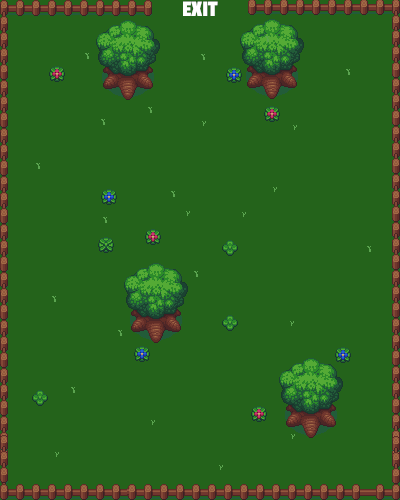
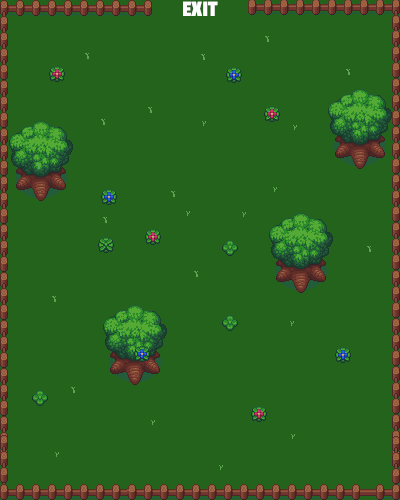
Moved 2 trees in level 2 to make game slightly easier

diff --git a/public/bundle.js b/public/bundle.js
@@ -1,1 +1,1 @@
-(()=>{"use strict";function t(t,e,i,s){return Math.atan2(s-e,i-t)}function e(t,e,i,s){let n=Math.pow(i-t,2),o=Math.pow(s-e,2);return Math.sqrt(n+o)}const i={EAST:{name:"east",min:.25*-Math.PI,max:.25*Math.PI},SOUTH:{name:"south",min:.25*Math.PI,max:.75*Math.PI},NORTH:{name:"north",min:.75*-Math.PI,max:.25*-Math.PI},WEST:{name:"west",min:.75*Math.PI,max:.75*-Math.PI}};function s(t){return t>=i.EAST.min&&t<i.EAST.max?i.EAST:t>=i.SOUTH.min&&t<i.SOUTH.max?i.SOUTH:t>=i.NORTH.min&&t<i.NORTH.max?i.NORTH:i.WEST}function n(t){return t>Math.PI?n(t-2*Math.PI):t<-Math.PI?n(t+2*Math.PI):t}function o(t,e){let i=!0;return(e.x>t.right||e.x<t.left)&&(i=!1),(e.y>t.bottom||e.y<t.top)&&(i=!1),i}class a{constructor(t,e){this.x=t,this.y=e}}class h{constructor(t,e,i,s){this.left=t,this.top=e,this.right=i,this.bottom=s}}function r(t){for(let e=0;e<t.length;e++)document.getElementById(t[e]).style.display="initial"}function l(t){for(let e=0;e<t.length;e++)document.getElementById(t[e]).style.display="none"}function d(t){document.getElementById("end-level-message").innerText=t}const c=400,m=500,g=30;class y{constructor(t,e,i){this.xPos=t,this.yPos=e,this.xDest=t,this.yDest=e,this.direction=0,this.unitMove=2.5,this.moving=!1,this.pointerDown=!1,this.wayPoints=[],this.obstacleArray=[];for(let t of i){let e=new h(t.x,t.y,t.x+t.width,t.y+t.height);this.obstacleArray.push(e)}}update(){this.moveToDest()}moveToDest(){if(this.wayPoints.length>0&&([this.xDest,this.yDest]=this.wayPoints[0],this.moving=!0),this.arrivedAtNextWaypoint()){if(this.wayPoints.shift(),!this.hasNextWaypoint())return void(this.moving=!1);this.assignNextDestination(),this.moving=!0}this.turnTowardsDestination();let t=e(this.xPos,this.yPos,this.xDest,this.yDest),i=this.unitMove;t<25&&1===this.wayPoints.length&&(i*=t/25);let s=i*Math.cos(this.direction),n=i*Math.sin(this.direction);[s,n]=this.checkMoveForObstacles(s,n,this.obstacles),this.xPos+=s,this.yPos+=n}onPointerDown(t,e){this.pointerDown||(this.pointerDown=!0,this.wayPoints=[])}onPointerMove(t,e){this.pointerDown&&this.checkWaypointIsValid(t,e,this.obstacleArray)&&this.wayPoints.push([t,e])}onPointerUp(t,e){this.pointerDown=!1,this.checkWaypointIsValid(t,e,this.obstacleArray)&&this.wayPoints.push([t,e])}turnTowardsDestination(){let e=t(this.xPos,this.yPos,this.xDest,this.yDest);this.direction=e}arrivedAtNextWaypoint(){return e(this.xDest,this.yDest,this.xPos,this.yPos)<=2*this.unitMove}hasNextWaypoint(){return this.wayPoints.length>0}assignNextDestination(){this.xDest=this.wayPoints[0][0],this.yDest=this.wayPoints[0][1]}checkMoveForObstacles(t,e){let i=this.xPos+t,s=this.yPos+e;for(let t of this.obstacleArray)if(o(t,new a(i,s)))return o(t,new a(this.xPos,s))?o(t,new a(i,this.yPos))?[0,0]:[e,0]:[0,e];return[t,e]}checkWaypointIsValid(t,e,i){for(let s of i)if(o(s,new a(t,e)))return!1;return!(t<g||t>370||e<g||e>470)}setSliderEventListener(){let t=document.getElementById("dog-speed");this.unitMove=2.5*t.value,t.addEventListener("change",(()=>{this.unitMove=2.5*t.value}))}}class u{constructor(t,e,i,s){this.xPos=t,this.yPos=e,this.direction=-Math.PI+Math.random()*Math.PI,this.velocity=0,this.id=i,this.moving=!1,this.isLamb=s,this.minDistanceFromHerd=120,this.outerReactionLimit=150}update(t,e,i,s){let n,o,a,h,r,l;[n,o]=this.getVelocityTowardHerd(t,e),[a,h]=this.getVelocityAwayFromDog(i),[r,l]=this.getVelocityAwayFromSides();let d=n+a+r,c=o+h+l;Math.abs(d)<=1&&Math.abs(c)<=1?(this.moving=!1,this.direction=Math.atan2(c,d),d=0,c=0):(this.moving=!0,this.direction=Math.atan2(c,d)),[d,c]=this.checkMoveForObstacles(d,c,s),this.xPos+=d,this.yPos+=c,this.checkGameAreaBounds()}getVelocityTowardHerd(i,s){if(e(this.xPos,this.yPos,i,s)>this.minDistanceFromHerd){let e=t(this.xPos,this.yPos,i,s),n=1.5;return[n*Math.cos(e),n*Math.sin(e)]}return[0,0]}getVelocityAwayFromDog(e){let i=this.outerReactionLimit,s=0,o=0,a=Math.pow(e.xPos-this.xPos,2),h=Math.pow(e.yPos-this.yPos,2);if(a+h<Math.pow(i,2)){let i=Math.sqrt(a+h),r=this.outerReactionLimit/i*1;r>6&&(r=6);let l=t(this.xPos,this.yPos,e.xPos,e.yPos);l=n(l+Math.PI),s=Math.cos(l)*r,o=Math.sin(l)*r}return[s,o]}getVelocityAwayFromSides(){let t,e,i=[0,0];this.xPos<50?(i=[1,0],t=this.xPos):this.xPos>350?(i=[-1,0],t=c-this.xPos):this.yPos<50?(this.xPos<165||this.xPos>235)&&(i=[0,1],t=50):this.yPos>450&&(i=[0,-1],t=m-this.yPos),e=t>0?50/t:1;let s=1*e;return[i[0]*s,i[1]*s]}checkGameAreaBounds(){this.xPos<g?this.xPos=g:this.xPos>370&&(this.xPos=370),this.yPos<g&&(this.xPos<165||this.xPos>235)?this.yPos=g:this.yPos>470&&(this.yPos=470)}checkMoveForObstacles(t,e,i){let s=this.xPos+t,n=this.yPos+e;for(let t of i){let i=new h(t.x,t.y,t.x+t.width,t.y+t.height);if(o(i,new a(s,n)))return o(i,new a(this.xPos,n))?o(i,new a(s,this.yPos))?[0,0]:[e,0]:[0,e]}return[t,e]}}class p{constructor(t){this.numSheep=t.sheep,this.centerX=0,this.centerY=0,this.xArray=[],this.yArray=[],this.allSheepGone=!1,this.obstacles=t.obstacles;for(let t=0;t<this.numSheep;t++){let e=this.getPossibleSpawnPoints(this.numSheep),i=t%2==0,s=new u(e[t][0],e[t][1],t,i);this.xArray.push(s),this.yArray.push(s)}}update(t){this.removeDepartedSheep(),this.sortPositionArrays(),this.centerX=this.calculateAverageXPosition(),this.centerY=this.calculateAverageYPosition();for(let e of this.xArray)e.update(this.centerX,this.centerY,t,this.obstacles)}removeDepartedSheep(){this.xArray=this.xArray.filter((t=>t.yPos>0)),this.yArray=this.yArray.filter((t=>t.yPos>0)),0===this.xArray.length&&(this.allSheepGone=!0)}calculateAverageXPosition(){let t=0;for(let e=0;e<this.xArray.length;e++)t+=this.xArray[e].xPos;return t/this.xArray.length}calculateAverageYPosition(){let t=0;for(let e=0;e<this.yArray.length;e++)t+=this.yArray[e].yPos;return t/this.yArray.length}sortPositionArrays(){this.xArray.sort(((t,e)=>t.xPos-e.xPos)),this.yArray.sort(((t,e)=>t.yPos-e.yPos))}getPossibleSpawnPoints(t){let e=[];for(let i=0;i<t;i++){let t,i;do{t=g+340*Math.random(),i=g+440*Math.random()}while(!this.pointIsValid(t,i));e.push([t,i])}return e}pointIsValid(t,e){for(let i of this.obstacles)if(o(new h(i.x,i.y,i.x+i.width,i.y+i.height),new a(t,e)))return!1;return!0}setHerdClosenessEventListener(){let t=document.getElementById("herd-closeness");this.minDistanceFromHerd=120/t.value,t.addEventListener("change",(()=>{for(let e of this.xArray)e.minDistanceFromHerd=120/t.value}))}setDogScarinessEventListener(){let t=document.getElementById("dog-scariness");this.outerReactionLimit=150*t.value,t.addEventListener("change",(()=>{for(let e of this.xArray)e.outerReactionLimit=150*t.value}))}}const f=[{id:0,sheep:15,time:30,level_url:"level1.png",obstacles:[{x:269,y:213,width:69,height:84}]},{id:1,sheep:20,time:40,level_url:"level2.png",obstacles:[{x:96,y:21,width:65,height:80},{x:240,y:22,width:64,height:79},{x:124,y:262,width:67,height:78},{x:280,y:360,width:67,height:82}]},{id:2,sheep:30,time:30,level_url:"level3.png",obstacles:[{x:179,y:87,width:92,height:18},{x:97,y:155,width:88,height:15},{x:91,y:252,width:66,height:79},{x:234,y:252,width:65,height:79}]}],v=(t,e,i,s,n,o)=>{if(e){let a=e.width*o,h=e.height*o;t.save(),t.translate(i,s),t.rotate(n),t.drawImage(e,-a/2,-h/2,a,h),t.restore()}},P=t=>{let e=t%20;return e<5?0:e>=10&&e<15?1:2},w=(t,e)=>{let s,n;switch(t){case i.SOUTH:s=0,n=e-Math.PI/2;break;case i.WEST:s=3,n=0;break;case i.NORTH:s=6,n=e+Math.PI/2;break;default:s=9,n=0}return[s,n]};class x{constructor(t,e,i){this.snapshots=t,this.graphics=e,this.level=i,this.snapshotIndex=0,this.frameCount=0,this.replaySpeed=2,this.drawBackground(),this.drawReplayFrame(t[0]),document.getElementById("replay-slider").max=this.snapshots.length-1}update(){if(++this.frameCount%1==0){this.snapshotIndex+=this.replaySpeed,this.snapshotIndex<=0?(this.snapshotIndex=0,r(["play"]),l(["pause"]),this.replaySpeed=0):this.snapshotIndex>=this.snapshots.length&&(this.snapshotIndex=this.snapshots.length-1),this.drawBackground(),this.drawReplayFrame(this.snapshots[this.snapshotIndex]),document.getElementById("replay-slider").value=this.snapshotIndex;let t=document.getElementById("replay-time"),e=60,i=this.snapshotIndex/e,s=i%1*100,n=Math.floor(i).toLocaleString("en-UK",{minimumIntegerDigits:2}),o=Math.floor(s).toLocaleString("en-UK",{minimumIntegerDigits:2});t.innerText=`${n}.${o}`}if(this.frameCount%30==0){let t=document.getElementById("replay-banner");"none"===t.style.display?t.style.display="initial":t.style.display="none"}}drawReplayFrame(t){let e=document.getElementById("game-area");if(e){document.getElementById("sheep-remaining").innerText=t.sheep.length;let i=e.getContext("2d"),n=s(t.dog.direction),[o,a]=w(n,t.dog.direction),h=this.graphics.dog.images[o];v(i,h,Math.floor(t.dog.x),Math.floor(t.dog.y),a,.8);for(let e=0;e<t.sheep.length;e++){let n=t.sheep[e],o=s(n.direction),[a,h]=w(o,n.direction),r=this.graphics.sheep.images[a],l=n.isLamb?.7:1;v(i,r,n.x,n.y,h,l)}}}drawBackground(){document.getElementById("game-area").getContext("2d").drawImage(this.graphics.backgrounds.images[this.level.id],0,0)}}function E(t,e){this.graphics=t,this.level=e,this.frameCount=0,this.running=!1,this.dog=new y(200,125,e.obstacles),this.herd=new p(e),this.awaitingGameStart=!0,this.levelTimeLimit=1e3*e.time,this.timeRemaining=1e3*e.time,this.lastStartTime=(new Date).getTime(),this.actionReplay=null,this.snapshots=[],r(["go-button"]),this.updateGame=function(){if(++this.frameCount%1==0){if(this.drawBackground(),this.actionReplay)this.actionReplay.update();else if(this.running){this.dog.update(),this.herd.update(this.dog),document.getElementById("sheep-remaining").innerText=this.herd.xArray.length,this.herd.allSheepGone&&(this.level.id+1===f.length?(this.running=!1,this.dimmerMaskOn(!0),l(["next-level-button","go-button","try-again-button"]),r(["end-of-level-display","end-level-message"]),d("You beat the game!")):(this.running=!1,this.dimmerMaskOn(!0),r(["end-of-level-display","end-level-message","next-level-button","action-replay-button"]),l(["go-button","try-again-button"]),d(`LEVEL ${this.level.id+1} COMPLETE!`)));let t=(new Date).getTime()-this.lastStartTime,e=document.getElementById("time-remaining"),i=Math.ceil(this.timeRemaining-t);if(e.value=i,i<=0&&(this.running=!1,this.dimmerMaskOn(!0),r(["end-of-level-display","end-level-message","action-replay-button","try-again-button"]),l(["next-level-button","go-button"]),d("Out of time!")),this.frameCount%1==0){let t,e={dog:{x:this.dog.xPos,y:this.dog.yPos,direction:this.dog.direction},sheep:[]};for(let i=0;i<this.herd.xArray.length;i++)t=this.herd.xArray[i],e.sheep.push({x:t.xPos,y:t.yPos,direction:t.direction,isLamb:t.isLamb});this.snapshots.push(e)}}this.actionReplay||((t,e,i,n)=>{let o,a=document.getElementById("game-area");if(a&&(o=a.getContext("2d")),t.wayPoints.length>0&&t.pointerDown){o.strokeStyle="white",o.lineWidth=5,o.beginPath(),o.moveTo(t.xPos,t.yPos);for(let e=0;e<t.wayPoints.length;e++)o.lineTo(t.wayPoints[e][0],t.wayPoints[e][1]);o.stroke()}let h,r=s(t.direction),[l,d]=w(r,t.direction);h=t.moving?P(i):2;let c=n.dog.images[l+h];v(o,c,Math.floor(t.xPos),Math.floor(t.yPos),d,.8),t.pointerDown&&(o.fillStyle="white",o.fillRect(t.xDest-2,t.yDest-2,5,5));for(let t=0;t<e.xArray.length;t++){let a=e.xArray[t],r=s(a.direction),[l,d]=w(r,a.direction);h=a.moving?P(i):2;let c=n.sheep.images[l+h],m=a.isLamb?.7:1;v(o,c,a.xPos,a.yPos,d,m)}})(this.dog,this.herd,this.frameCount,this.graphics)}window.requestAnimationFrame(this.updateGame)}.bind(this),this.onGoButtonClicked=function(){this.startGameAgain()},this.repeatCurrentLevel=function(){this.startLevel(this.level.id)},this.startNextLevel=function(){this.startLevel(this.level.id+1)},this.startGameAgain=function(){this.awaitingGameStart=!1,this.startLevel(0)},this.startLevel=function(t){this.snapshots=[],l(["end-of-level-display"]),this.level=f[t],this.dog=new y(200,250,this.level.obstacles),this.dog.setSliderEventListener(),this.herd=new p(this.level),this.herd.setHerdClosenessEventListener(),this.herd.setDogScarinessEventListener(),this.frameCount=0;let e=document.getElementById("time-allowed");this.levelTimeLimit=1e3*this.level.time*e.value,this.timeRemaining=1e3*this.level.time*e.value,document.getElementById("time-remaining").max=this.levelTimeLimit,document.getElementById("time-remaining").value=this.levelTimeLimit,this.lastStartTime=(new Date).getTime(),this.running=!0},this.drawBackground=function(){let t=this.graphics.backgrounds.images[this.level.id];t&&document.getElementById("game-area").getContext("2d").drawImage(t,0,0)},this.start=function(){this.running=!0,this.lastStartTime=(new Date).getTime()},this.stop=function(){this.running=!1;let t=(new Date).getTime()-this.lastStartTime;this.timeRemaining-=t},this.startActionReplay=function(){this.dimmerMaskOn(!1),l(["end-of-level-display"]),r(["action-replay-display","replay-banner","replay-time"]),this.actionReplay=new x(this.snapshots,this.graphics,this.level)},this.finishReplay=function(){this.actionReplay=null,l(["action-replay-display","end-level-message","action-replay-button","replay-time","replay-banner"]),r(["end-of-level-display"])},this.toStart=function(){this.actionReplay&&(this.actionReplay.snapshotIndex=0)},this.rewindReplay=function(){this.actionReplay&&(this.actionReplay.replaySpeed=-2,r(["pause"]),l(["play"]))},this.playReplay=function(){this.actionReplay&&(this.actionReplay.replaySpeed=1,r(["pause"]),l(["play"]))},this.pauseReplay=function(){this.actionReplay&&(this.actionReplay.replaySpeed=0,r(["play"]),l(["pause"]))},this.fastForwardReplay=function(){this.actionReplay&&(this.actionReplay.replaySpeed=2,r(["pause"]),l(["play"]))},this.onPointerDown=function(t,e){this.actionReplay||this.dog.onPointerDown(t,e)},this.onPointerUp=function(t,e){this.actionReplay||this.dog.onPointerUp(t,e)},this.onPointerMove=function(t,e){this.actionReplay||this.dog.onPointerMove(t,e)},this.dimmerMaskOn=function(t){document.getElementById("dimmer-mask").style.opacity=t?.5:0}}document.addEventListener("DOMContentLoaded",(function(){!function(){let t=document.getElementById("game-area");t.width=c,t.height=m;let e={dog:{urls:["dog_south_left","dog_south_right","dog_south_center","dog_west_left","dog_west_right","dog_west_center","dog_north_left","dog_north_right","dog_north_center","dog_east_left","dog_east_right","dog_east_center"],images:[]},sheep:{urls:["sheep_south_left","sheep_south_right","sheep_south_center","sheep_west_left","sheep_west_right","sheep_west_center","sheep_north_left","sheep_north_right","sheep_north_center","sheep_east_left","sheep_east_right","sheep_east_center"],images:[]},backgrounds:{urls:["level1","level2","level3"],images:[]}},i=new E(e,f[0]);t.addEventListener("pointerdown",(e=>{let s=t.getBoundingClientRect(),n=(e.clientX-s.left)/s.width*c,o=(e.clientY-s.top)/s.height*m;i.onPointerDown(n,o)})),t.addEventListener("pointerup",(e=>{let s=t.getBoundingClientRect(),n=(e.clientX-s.left)/s.width*c,o=(e.clientY-s.top)/s.height*m;i.onPointerUp(n,o)})),t.addEventListener("pointermove",(e=>{if(i.frameCount%2==0){let s=t.getBoundingClientRect(),n=(e.clientX-s.left)/s.width*c,o=(e.clientY-s.top)/s.height*m;i.onPointerMove(n,o)}})),t.addEventListener("touchmove",(t=>{t.preventDefault()})),document.getElementById("go-button").addEventListener("click",(t=>{i.dimmerMaskOn(!1),i.onGoButtonClicked()}));let s=document.getElementsByClassName("instructions-button");for(let t of s)t.addEventListener("click",(()=>{document.getElementById("instructions-modal").style.display="initial",i.stop()}));document.getElementById("close-instructions-button").addEventListener("click",(()=>{document.getElementsByClassName("modal")[0].style.display="none",i.awaitingGameStart||i.start()})),document.getElementById("settings-top-button").addEventListener("click",(()=>{document.getElementById("settings-modal").style.display="initial",i.stop()})),document.getElementById("close-settings-button").addEventListener("click",(()=>{document.getElementById("settings-modal").style.display="none",i.awaitingGameStart||i.start()})),document.getElementById("next-level-button").addEventListener("click",(t=>{i.dimmerMaskOn(!1),i.startNextLevel()})),document.getElementById("try-again-button").addEventListener("click",(t=>{i.dimmerMaskOn(!1),i.repeatCurrentLevel()})),document.getElementById("action-replay-button").addEventListener("click",(t=>{i.dimmerMaskOn(!1),i.startActionReplay()})),document.getElementById("begin-again-button").addEventListener("click",(t=>{i.dimmerMaskOn(!1),i.startGameAgain()})),document.getElementById("to-start").addEventListener("click",(t=>{i.toStart()})),document.getElementById("rewind").addEventListener("click",(t=>{i.rewindReplay()})),document.getElementById("play").addEventListener("click",(t=>{i.playReplay()})),document.getElementById("pause").addEventListener("click",(t=>{i.pauseReplay()})),document.getElementById("fast-forward").addEventListener("click",(t=>{i.fastForwardReplay()})),document.getElementById("finish").addEventListener("click",(t=>{i.finishReplay()})),async function(t){let e=[];for(let i of t.dog.urls)e.push(new Promise((e=>{const s=new Image;s.src=`src/images/dog_images/${i}.png`,t.dog.images.push(s),s.addEventListener("load",(()=>{e()}))})));for(let i of t.sheep.urls)e.push(new Promise((e=>{const s=new Image;s.src=`src/images/sheep_images/${i}.png`,t.sheep.images.push(s),s.addEventListener("load",(()=>{e()}))})));for(let i of t.backgrounds.urls)e.push(new Promise((e=>{const s=new Image;s.src=`src/images/backgrounds/${i}.png`,t.backgrounds.images.push(s),s.addEventListener("load",(()=>{e()}))})));await Promise.all(e)}(e).then((()=>{window.requestAnimationFrame(i.updateGame)}))}()}))})();
+(()=>{"use strict";function t(t,e,i,s){return Math.atan2(s-e,i-t)}function e(t,e,i,s){let n=Math.pow(i-t,2),o=Math.pow(s-e,2);return Math.sqrt(n+o)}const i={EAST:{name:"east",min:.25*-Math.PI,max:.25*Math.PI},SOUTH:{name:"south",min:.25*Math.PI,max:.75*Math.PI},NORTH:{name:"north",min:.75*-Math.PI,max:.25*-Math.PI},WEST:{name:"west",min:.75*Math.PI,max:.75*-Math.PI}};function s(t){return t>=i.EAST.min&&t<i.EAST.max?i.EAST:t>=i.SOUTH.min&&t<i.SOUTH.max?i.SOUTH:t>=i.NORTH.min&&t<i.NORTH.max?i.NORTH:i.WEST}function n(t){return t>Math.PI?n(t-2*Math.PI):t<-Math.PI?n(t+2*Math.PI):t}function o(t,e){let i=!0;return(e.x>t.right||e.x<t.left)&&(i=!1),(e.y>t.bottom||e.y<t.top)&&(i=!1),i}class a{constructor(t,e){this.x=t,this.y=e}}class h{constructor(t,e,i,s){this.left=t,this.top=e,this.right=i,this.bottom=s}}function r(t){for(let e=0;e<t.length;e++)document.getElementById(t[e]).style.display="initial"}function l(t){for(let e=0;e<t.length;e++)document.getElementById(t[e]).style.display="none"}function d(t){document.getElementById("end-level-message").innerText=t}const c=400,m=500,g=30;class y{constructor(t,e,i){this.xPos=t,this.yPos=e,this.xDest=t,this.yDest=e,this.direction=0,this.unitMove=2.5,this.moving=!1,this.pointerDown=!1,this.wayPoints=[],this.obstacleArray=[];for(let t of i){let e=new h(t.x,t.y,t.x+t.width,t.y+t.height);this.obstacleArray.push(e)}}update(){this.moveToDest()}moveToDest(){if(this.wayPoints.length>0&&([this.xDest,this.yDest]=this.wayPoints[0],this.moving=!0),this.arrivedAtNextWaypoint()){if(this.wayPoints.shift(),!this.hasNextWaypoint())return void(this.moving=!1);this.assignNextDestination(),this.moving=!0}this.turnTowardsDestination();let t=e(this.xPos,this.yPos,this.xDest,this.yDest),i=this.unitMove;t<25&&1===this.wayPoints.length&&(i*=t/25);let s=i*Math.cos(this.direction),n=i*Math.sin(this.direction);[s,n]=this.checkMoveForObstacles(s,n,this.obstacles),this.xPos+=s,this.yPos+=n}onPointerDown(t,e){this.pointerDown||(this.pointerDown=!0,this.wayPoints=[])}onPointerMove(t,e){this.pointerDown&&this.checkWaypointIsValid(t,e,this.obstacleArray)&&this.wayPoints.push([t,e])}onPointerUp(t,e){this.pointerDown=!1,this.checkWaypointIsValid(t,e,this.obstacleArray)&&this.wayPoints.push([t,e])}turnTowardsDestination(){let e=t(this.xPos,this.yPos,this.xDest,this.yDest);this.direction=e}arrivedAtNextWaypoint(){return e(this.xDest,this.yDest,this.xPos,this.yPos)<=2*this.unitMove}hasNextWaypoint(){return this.wayPoints.length>0}assignNextDestination(){this.xDest=this.wayPoints[0][0],this.yDest=this.wayPoints[0][1]}checkMoveForObstacles(t,e){let i=this.xPos+t,s=this.yPos+e;for(let t of this.obstacleArray)if(o(t,new a(i,s)))return o(t,new a(this.xPos,s))?o(t,new a(i,this.yPos))?[0,0]:[e,0]:[0,e];return[t,e]}checkWaypointIsValid(t,e,i){for(let s of i)if(o(s,new a(t,e)))return!1;return!(t<g||t>370||e<g||e>470)}setSliderEventListener(){let t=document.getElementById("dog-speed");this.unitMove=2.5*t.value,t.addEventListener("change",(()=>{this.unitMove=2.5*t.value}))}}class u{constructor(t,e,i,s){this.xPos=t,this.yPos=e,this.direction=-Math.PI+Math.random()*Math.PI,this.velocity=0,this.id=i,this.moving=!1,this.isLamb=s,this.minDistanceFromHerd=120,this.outerReactionLimit=150}update(t,e,i,s){let n,o,a,h,r,l;[n,o]=this.getVelocityTowardHerd(t,e),[a,h]=this.getVelocityAwayFromDog(i),[r,l]=this.getVelocityAwayFromSides();let d=n+a+r,c=o+h+l;Math.abs(d)<=1&&Math.abs(c)<=1?(this.moving=!1,this.direction=Math.atan2(c,d),d=0,c=0):(this.moving=!0,this.direction=Math.atan2(c,d)),[d,c]=this.checkMoveForObstacles(d,c,s),this.xPos+=d,this.yPos+=c,this.checkGameAreaBounds()}getVelocityTowardHerd(i,s){if(e(this.xPos,this.yPos,i,s)>this.minDistanceFromHerd){let e=t(this.xPos,this.yPos,i,s),n=1.5;return[n*Math.cos(e),n*Math.sin(e)]}return[0,0]}getVelocityAwayFromDog(e){let i=this.outerReactionLimit,s=0,o=0,a=Math.pow(e.xPos-this.xPos,2),h=Math.pow(e.yPos-this.yPos,2);if(a+h<Math.pow(i,2)){let i=Math.sqrt(a+h),r=this.outerReactionLimit/i*1;r>6&&(r=6);let l=t(this.xPos,this.yPos,e.xPos,e.yPos);l=n(l+Math.PI),s=Math.cos(l)*r,o=Math.sin(l)*r}return[s,o]}getVelocityAwayFromSides(){let t,e,i=[0,0];this.xPos<50?(i=[1,0],t=this.xPos):this.xPos>350?(i=[-1,0],t=c-this.xPos):this.yPos<50?(this.xPos<165||this.xPos>235)&&(i=[0,1],t=50):this.yPos>450&&(i=[0,-1],t=m-this.yPos),e=t>0?50/t:1;let s=1*e;return[i[0]*s,i[1]*s]}checkGameAreaBounds(){this.xPos<g?this.xPos=g:this.xPos>370&&(this.xPos=370),this.yPos<g&&(this.xPos<165||this.xPos>235)?this.yPos=g:this.yPos>470&&(this.yPos=470)}checkMoveForObstacles(t,e,i){let s=this.xPos+t,n=this.yPos+e;for(let t of i){let i=new h(t.x,t.y,t.x+t.width,t.y+t.height);if(o(i,new a(s,n)))return o(i,new a(this.xPos,n))?o(i,new a(s,this.yPos))?[0,0]:[e,0]:[0,e]}return[t,e]}}class p{constructor(t){this.numSheep=t.sheep,this.centerX=0,this.centerY=0,this.xArray=[],this.yArray=[],this.allSheepGone=!1,this.obstacles=t.obstacles;for(let t=0;t<this.numSheep;t++){let e=this.getPossibleSpawnPoints(this.numSheep),i=t%2==0,s=new u(e[t][0],e[t][1],t,i);this.xArray.push(s),this.yArray.push(s)}}update(t){this.removeDepartedSheep(),this.sortPositionArrays(),this.centerX=this.calculateAverageXPosition(),this.centerY=this.calculateAverageYPosition();for(let e of this.xArray)e.update(this.centerX,this.centerY,t,this.obstacles)}removeDepartedSheep(){this.xArray=this.xArray.filter((t=>t.yPos>0)),this.yArray=this.yArray.filter((t=>t.yPos>0)),0===this.xArray.length&&(this.allSheepGone=!0)}calculateAverageXPosition(){let t=0;for(let e=0;e<this.xArray.length;e++)t+=this.xArray[e].xPos;return t/this.xArray.length}calculateAverageYPosition(){let t=0;for(let e=0;e<this.yArray.length;e++)t+=this.yArray[e].yPos;return t/this.yArray.length}sortPositionArrays(){this.xArray.sort(((t,e)=>t.xPos-e.xPos)),this.yArray.sort(((t,e)=>t.yPos-e.yPos))}getPossibleSpawnPoints(t){let e=[];for(let i=0;i<t;i++){let t,i;do{t=g+340*Math.random(),i=g+440*Math.random()}while(!this.pointIsValid(t,i));e.push([t,i])}return e}pointIsValid(t,e){for(let i of this.obstacles)if(o(new h(i.x,i.y,i.x+i.width,i.y+i.height),new a(t,e)))return!1;return!0}setHerdClosenessEventListener(){let t=document.getElementById("herd-closeness");this.minDistanceFromHerd=120/t.value,t.addEventListener("change",(()=>{for(let e of this.xArray)e.minDistanceFromHerd=120/t.value}))}setDogScarinessEventListener(){let t=document.getElementById("dog-scariness");this.outerReactionLimit=150*t.value,t.addEventListener("change",(()=>{for(let e of this.xArray)e.outerReactionLimit=150*t.value}))}}const f=[{id:0,sheep:15,time:30,level_url:"level1.png",obstacles:[{x:269,y:213,width:69,height:84}]},{id:1,sheep:20,time:40,level_url:"level2.png",obstacles:[{x:8,y:118,width:67,height:85},{x:325,y:88,width:67,height:84},{x:102,y:303,width:67,height:84},{x:267,y:211,width:69,height:85}]},{id:2,sheep:30,time:30,level_url:"level3.png",obstacles:[{x:179,y:87,width:92,height:18},{x:97,y:155,width:88,height:15},{x:91,y:252,width:66,height:79},{x:234,y:252,width:65,height:79}]}],v=(t,e,i,s,n,o)=>{if(e){let a=e.width*o,h=e.height*o;t.save(),t.translate(i,s),t.rotate(n),t.drawImage(e,-a/2,-h/2,a,h),t.restore()}},P=t=>{let e=t%20;return e<5?0:e>=10&&e<15?1:2},w=(t,e)=>{let s,n;switch(t){case i.SOUTH:s=0,n=e-Math.PI/2;break;case i.WEST:s=3,n=0;break;case i.NORTH:s=6,n=e+Math.PI/2;break;default:s=9,n=0}return[s,n]};class x{constructor(t,e,i){this.snapshots=t,this.graphics=e,this.level=i,this.snapshotIndex=0,this.frameCount=0,this.replaySpeed=2,this.drawBackground(),this.drawReplayFrame(t[0]),document.getElementById("replay-slider").max=this.snapshots.length-1}update(){if(++this.frameCount%1==0){this.snapshotIndex+=this.replaySpeed,this.snapshotIndex<=0?(this.snapshotIndex=0,r(["play"]),l(["pause"]),this.replaySpeed=0):this.snapshotIndex>=this.snapshots.length&&(this.snapshotIndex=this.snapshots.length-1),this.drawBackground(),this.drawReplayFrame(this.snapshots[this.snapshotIndex]),document.getElementById("replay-slider").value=this.snapshotIndex;let t=document.getElementById("replay-time"),e=60,i=this.snapshotIndex/e,s=i%1*100,n=Math.floor(i).toLocaleString("en-UK",{minimumIntegerDigits:2}),o=Math.floor(s).toLocaleString("en-UK",{minimumIntegerDigits:2});t.innerText=`${n}.${o}`}if(this.frameCount%30==0){let t=document.getElementById("replay-banner");"none"===t.style.display?t.style.display="initial":t.style.display="none"}}drawReplayFrame(t){let e=document.getElementById("game-area");if(e){document.getElementById("sheep-remaining").innerText=t.sheep.length;let i=e.getContext("2d"),n=s(t.dog.direction),[o,a]=w(n,t.dog.direction),h=this.graphics.dog.images[o];v(i,h,Math.floor(t.dog.x),Math.floor(t.dog.y),a,.8);for(let e=0;e<t.sheep.length;e++){let n=t.sheep[e],o=s(n.direction),[a,h]=w(o,n.direction),r=this.graphics.sheep.images[a],l=n.isLamb?.7:1;v(i,r,n.x,n.y,h,l)}}}drawBackground(){document.getElementById("game-area").getContext("2d").drawImage(this.graphics.backgrounds.images[this.level.id],0,0)}}function E(t,e){this.graphics=t,this.level=e,this.frameCount=0,this.running=!1,this.dog=new y(200,125,e.obstacles),this.herd=new p(e),this.awaitingGameStart=!0,this.levelTimeLimit=1e3*e.time,this.timeRemaining=1e3*e.time,this.lastStartTime=(new Date).getTime(),this.actionReplay=null,this.snapshots=[],r(["go-button"]),this.updateGame=function(){if(++this.frameCount%1==0){if(this.drawBackground(),this.actionReplay)this.actionReplay.update();else if(this.running){this.dog.update(),this.herd.update(this.dog),document.getElementById("sheep-remaining").innerText=this.herd.xArray.length,this.herd.allSheepGone&&(this.level.id+1===f.length?(this.running=!1,this.dimmerMaskOn(!0),l(["next-level-button","go-button","try-again-button"]),r(["end-of-level-display","end-level-message"]),d("You beat the game!")):(this.running=!1,this.dimmerMaskOn(!0),r(["end-of-level-display","end-level-message","next-level-button","action-replay-button"]),l(["go-button","try-again-button"]),d(`LEVEL ${this.level.id+1} COMPLETE!`)));let t=(new Date).getTime()-this.lastStartTime,e=document.getElementById("time-remaining"),i=Math.ceil(this.timeRemaining-t);if(e.value=i,i<=0&&(this.running=!1,this.dimmerMaskOn(!0),r(["end-of-level-display","end-level-message","action-replay-button","try-again-button"]),l(["next-level-button","go-button"]),d("Out of time!")),this.frameCount%1==0){let t,e={dog:{x:this.dog.xPos,y:this.dog.yPos,direction:this.dog.direction},sheep:[]};for(let i=0;i<this.herd.xArray.length;i++)t=this.herd.xArray[i],e.sheep.push({x:t.xPos,y:t.yPos,direction:t.direction,isLamb:t.isLamb});this.snapshots.push(e)}}this.actionReplay||((t,e,i,n)=>{let o,a=document.getElementById("game-area");if(a&&(o=a.getContext("2d")),t.wayPoints.length>0&&t.pointerDown){o.strokeStyle="white",o.lineWidth=5,o.beginPath(),o.moveTo(t.xPos,t.yPos);for(let e=0;e<t.wayPoints.length;e++)o.lineTo(t.wayPoints[e][0],t.wayPoints[e][1]);o.stroke()}let h,r=s(t.direction),[l,d]=w(r,t.direction);h=t.moving?P(i):2;let c=n.dog.images[l+h];v(o,c,Math.floor(t.xPos),Math.floor(t.yPos),d,.8),t.pointerDown&&(o.fillStyle="white",o.fillRect(t.xDest-2,t.yDest-2,5,5));for(let t=0;t<e.xArray.length;t++){let a=e.xArray[t],r=s(a.direction),[l,d]=w(r,a.direction);h=a.moving?P(i):2;let c=n.sheep.images[l+h],m=a.isLamb?.7:1;v(o,c,a.xPos,a.yPos,d,m)}})(this.dog,this.herd,this.frameCount,this.graphics)}window.requestAnimationFrame(this.updateGame)}.bind(this),this.onGoButtonClicked=function(){this.startGameAgain()},this.repeatCurrentLevel=function(){this.startLevel(this.level.id)},this.startNextLevel=function(){this.startLevel(this.level.id+1)},this.startGameAgain=function(){this.awaitingGameStart=!1,this.startLevel(0)},this.startLevel=function(t){this.snapshots=[],l(["end-of-level-display"]),this.level=f[t],this.dog=new y(200,250,this.level.obstacles),this.dog.setSliderEventListener(),this.herd=new p(this.level),this.herd.setHerdClosenessEventListener(),this.herd.setDogScarinessEventListener(),this.frameCount=0;let e=document.getElementById("time-allowed");this.levelTimeLimit=1e3*this.level.time*e.value,this.timeRemaining=1e3*this.level.time*e.value,document.getElementById("time-remaining").max=this.levelTimeLimit,document.getElementById("time-remaining").value=this.levelTimeLimit,this.lastStartTime=(new Date).getTime(),this.running=!0},this.drawBackground=function(){let t=this.graphics.backgrounds.images[this.level.id];t&&document.getElementById("game-area").getContext("2d").drawImage(t,0,0)},this.start=function(){this.running=!0,this.lastStartTime=(new Date).getTime()},this.stop=function(){this.running=!1;let t=(new Date).getTime()-this.lastStartTime;this.timeRemaining-=t},this.startActionReplay=function(){this.dimmerMaskOn(!1),l(["end-of-level-display"]),r(["action-replay-display","replay-banner","replay-time"]),this.actionReplay=new x(this.snapshots,this.graphics,this.level)},this.finishReplay=function(){this.actionReplay=null,l(["action-replay-display","end-level-message","action-replay-button","replay-time","replay-banner"]),r(["end-of-level-display"])},this.toStart=function(){this.actionReplay&&(this.actionReplay.snapshotIndex=0)},this.rewindReplay=function(){this.actionReplay&&(this.actionReplay.replaySpeed=-2,r(["pause"]),l(["play"]))},this.playReplay=function(){this.actionReplay&&(this.actionReplay.replaySpeed=1,r(["pause"]),l(["play"]))},this.pauseReplay=function(){this.actionReplay&&(this.actionReplay.replaySpeed=0,r(["play"]),l(["pause"]))},this.fastForwardReplay=function(){this.actionReplay&&(this.actionReplay.replaySpeed=2,r(["pause"]),l(["play"]))},this.onPointerDown=function(t,e){this.actionReplay||this.dog.onPointerDown(t,e)},this.onPointerUp=function(t,e){this.actionReplay||this.dog.onPointerUp(t,e)},this.onPointerMove=function(t,e){this.actionReplay||this.dog.onPointerMove(t,e)},this.dimmerMaskOn=function(t){document.getElementById("dimmer-mask").style.opacity=t?.5:0}}document.addEventListener("DOMContentLoaded",(function(){!function(){let t=document.getElementById("game-area");t.width=c,t.height=m;let e={dog:{urls:["dog_south_left","dog_south_right","dog_south_center","dog_west_left","dog_west_right","dog_west_center","dog_north_left","dog_north_right","dog_north_center","dog_east_left","dog_east_right","dog_east_center"],images:[]},sheep:{urls:["sheep_south_left","sheep_south_right","sheep_south_center","sheep_west_left","sheep_west_right","sheep_west_center","sheep_north_left","sheep_north_right","sheep_north_center","sheep_east_left","sheep_east_right","sheep_east_center"],images:[]},backgrounds:{urls:["level1","level2","level3"],images:[]}},i=new E(e,f[0]);t.addEventListener("pointerdown",(e=>{let s=t.getBoundingClientRect(),n=(e.clientX-s.left)/s.width*c,o=(e.clientY-s.top)/s.height*m;i.onPointerDown(n,o)})),t.addEventListener("pointerup",(e=>{let s=t.getBoundingClientRect(),n=(e.clientX-s.left)/s.width*c,o=(e.clientY-s.top)/s.height*m;i.onPointerUp(n,o)})),t.addEventListener("pointermove",(e=>{if(i.frameCount%2==0){let s=t.getBoundingClientRect(),n=(e.clientX-s.left)/s.width*c,o=(e.clientY-s.top)/s.height*m;i.onPointerMove(n,o)}})),t.addEventListener("touchmove",(t=>{t.preventDefault()})),document.getElementById("go-button").addEventListener("click",(t=>{i.dimmerMaskOn(!1),i.onGoButtonClicked()}));let s=document.getElementsByClassName("instructions-button");for(let t of s)t.addEventListener("click",(()=>{document.getElementById("instructions-modal").style.display="initial",i.stop()}));document.getElementById("close-instructions-button").addEventListener("click",(()=>{document.getElementsByClassName("modal")[0].style.display="none",i.awaitingGameStart||i.start()})),document.getElementById("settings-top-button").addEventListener("click",(()=>{document.getElementById("settings-modal").style.display="initial",i.stop()})),document.getElementById("close-settings-button").addEventListener("click",(()=>{document.getElementById("settings-modal").style.display="none",i.awaitingGameStart||i.start()})),document.getElementById("next-level-button").addEventListener("click",(t=>{i.dimmerMaskOn(!1),i.startNextLevel()})),document.getElementById("try-again-button").addEventListener("click",(t=>{i.dimmerMaskOn(!1),i.repeatCurrentLevel()})),document.getElementById("action-replay-button").addEventListener("click",(t=>{i.dimmerMaskOn(!1),i.startActionReplay()})),document.getElementById("begin-again-button").addEventListener("click",(t=>{i.dimmerMaskOn(!1),i.startGameAgain()})),document.getElementById("to-start").addEventListener("click",(t=>{i.toStart()})),document.getElementById("rewind").addEventListener("click",(t=>{i.rewindReplay()})),document.getElementById("play").addEventListener("click",(t=>{i.playReplay()})),document.getElementById("pause").addEventListener("click",(t=>{i.pauseReplay()})),document.getElementById("fast-forward").addEventListener("click",(t=>{i.fastForwardReplay()})),document.getElementById("finish").addEventListener("click",(t=>{i.finishReplay()})),async function(t){let e=[];for(let i of t.dog.urls)e.push(new Promise((e=>{const s=new Image;s.src=`src/images/dog_images/${i}.png`,t.dog.images.push(s),s.addEventListener("load",(()=>{e()}))})));for(let i of t.sheep.urls)e.push(new Promise((e=>{const s=new Image;s.src=`src/images/sheep_images/${i}.png`,t.sheep.images.push(s),s.addEventListener("load",(()=>{e()}))})));for(let i of t.backgrounds.urls)e.push(new Promise((e=>{const s=new Image;s.src=`src/images/backgrounds/${i}.png`,t.backgrounds.images.push(s),s.addEventListener("load",(()=>{e()}))})));await Promise.all(e)}(e).then((()=>{window.requestAnimationFrame(i.updateGame)}))}()}))})();

diff --git a/src/data/levels.js b/src/data/levels.js
@@ -20,28 +20,28 @@ export const levels = [
         "level_url": "level2.png",
         "obstacles": [
             {
-                "x": 96,
-                "y": 21,
-                "width": 65, 
-                "height": 80
-            },
-            {
-                "x": 240,
-                "y": 22,
-                "width": 64, 
-                "height": 79
-            },
-            {
-                "x": 124,
-                "y": 262,
+                "x": 8,
+                "y": 118,
                 "width": 67, 
-                "height": 78
+                "height": 85
             },
             {
-                "x": 280,
-                "y": 360,
+                "x": 325,
+                "y": 88,
                 "width": 67, 
-                "height": 82
+                "height": 84
+            },
+            {
+                "x": 102,
+                "y": 303,
+                "width": 67, 
+                "height": 84
+            },
+            {
+                "x": 267,
+                "y": 211,
+                "width": 69, 
+                "height": 85
             },
         ]
     },
